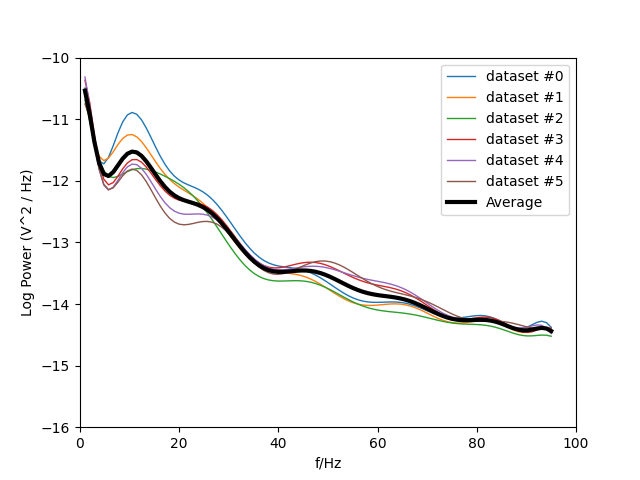
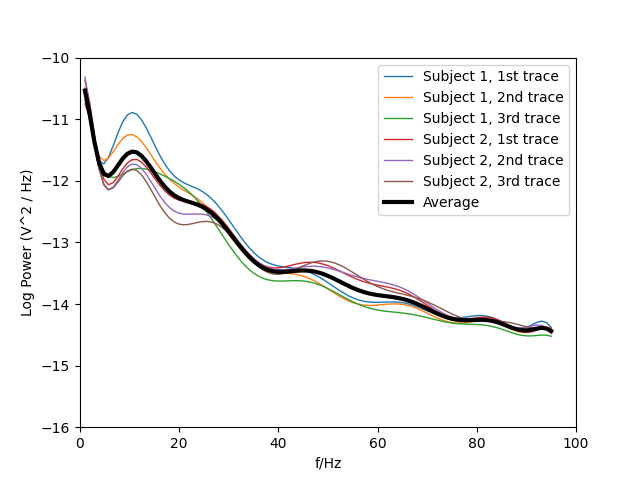
Added info about which figure it is.

Changed region(s): [[0.5938, 0.125, 0.875, 0.4375]]

diff --git a/ParalysedEEG.py b/ParalysedEEG.py
@@ -14,7 +14,7 @@ class ParalysedEEGFromWhithamEtAl:
     Version 3, 29 June 2007
 
     Power spectra of pure EEG from two temporarily paralysed
-    subjects. Data adapted from the figures in:
+    subjects. Data adapted from Figure 1, B-traces in:
 
     Scalp electrical recording during paralysis: Quantitative evidence that
     EEG frequencies above 20 Hz are contaminated by EMG
@@ -411,5 +411,5 @@ class ParalysedEEGFromWhithamEtAl:
        [ 97.6     , -14.44    ]])
 
     allsubjectdata = [sub1a, sub1b, sub1c, sub2a, sub2b, sub2c] # array pointing to the separate datasets
-    allsubjectdesciption = ['subject1 1st PSD', 'subject1 2nd PSD', 'subject1 3rd PSD',
-                            'subject2 1st PSD', 'subject2 2nd PSD', 'subject2 3rd PSD'] # descriptions of the datasets
+    allsubjectdesciption = ['Subject 1, 1st trace', 'Subject 1, 2nd trace', 'Subject 1, 3rd trace',
+                            'Subject 2, 1st trace', 'Subject 2, 2nd trace', 'Subject 2, 3rd trace'] # descriptions of the datasets

diff --git a/plot_paralysed_EEG_PSD.py b/plot_paralysed_EEG_PSD.py
@@ -10,7 +10,7 @@ for i in range(len(ParalysedEEGFromWhithamEtAl.allsubjectdata)):
     psd = p.EEGVariance(f)
     totalEEGPower = p.totalEEGPower()
     print("Average EEG voltage is (uV):",round((totalEEGPower**0.5)*1E6))
-    plt.plot(f,psd,linewidth=1,label="dataset #{}".format(i))
+    plt.plot(f,psd,linewidth=1,label=p.allsubjectdesciption[i])
 
 # Plot the average (no arguments needed here for the constructor)
 p = ParalysedEEGFromWhithamEtAl()

diff --git a/README.md b/README.md
@@ -1,7 +1,7 @@
 # Pure EEG power
 
 Log Power spectra of pure EEG from two temporarily paralysed
-subjects. Data adapted from the figures in:
+subjects. Data from Fig 1, B-traces of:
 
 [Scalp electrical recording during paralysis: Quantitative evidence that
 EEG frequencies above 20 Hz are contaminated by EMG
@@ -10,9 +10,6 @@ C. Richard Clark c , Stephen Loveless d , Marita Broberg e , Angus Wallace e ,
 Dylan DeLosAngeles e , Peter Lillie f , Andrew Hardy f , Rik.
 Clinical Neurophysiology Volume 118, Issue 8, August 2007,
 Pages 1877-1888.](https://www.sciencedirect.com/science/article/abs/pii/S1388245707001988)
-
-by having manually clicked on the datapoints of the 6 PSD plots
-in the paper and then done a polynomial fit to smooth them out.
 
 ![alt tag](individual_average.png)
 
